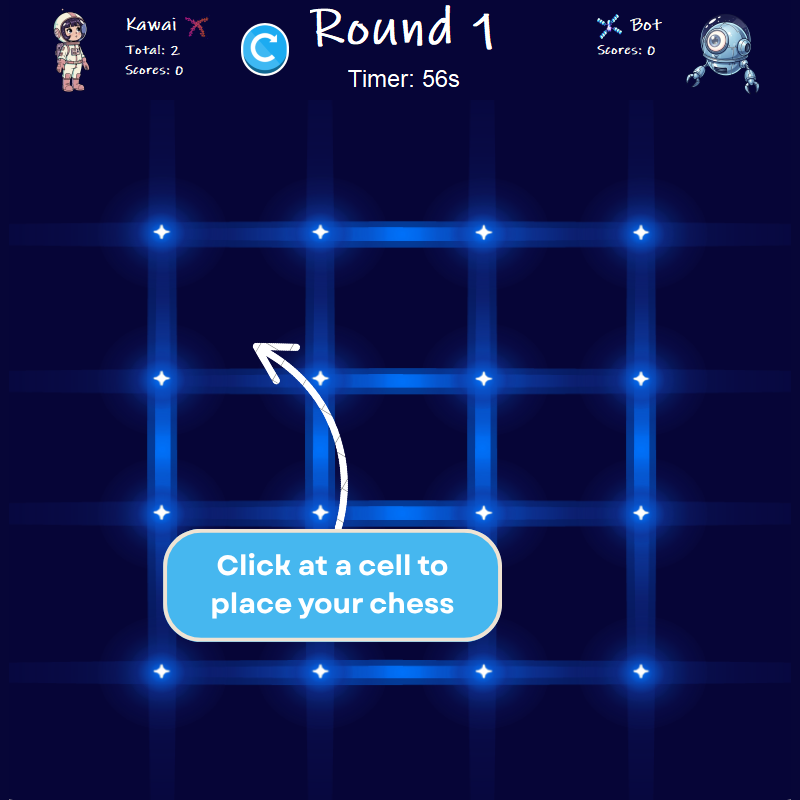
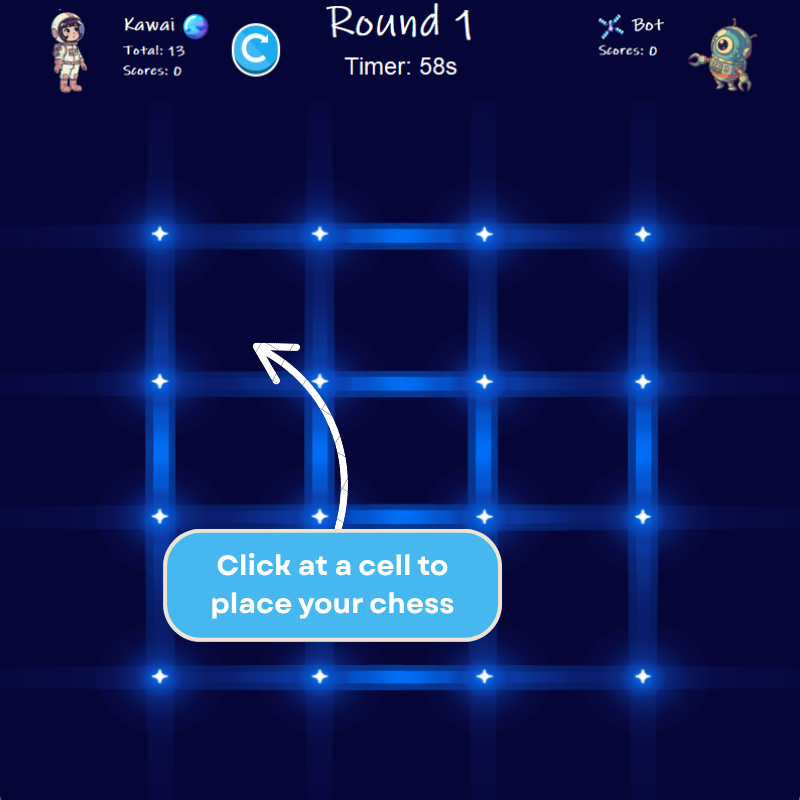
Update colors

diff --git a/src/panel/AboutUsPanel.java b/src/panel/AboutUsPanel.java
@@ -130,13 +130,13 @@ public class AboutUsPanel extends JPanel implements ActionListener {
     gbc.gridy = 3;
     gbc.gridx = 0;
     gridPanel.add(createMember(
-	    "<html><b>Nguyễn Phi Long</b><br><font size='3' color='gray'>CE170669 - <b><font color='#fdba14'>Leader</font></b></font></html>",
+	    "<html><b>Nguyễn Phi Long</b><br><font size='3'>CE170669 - <b><font color='#fdba14'>Leader</font></b></font></html>",
 	    "/img/about/long.jpg"
     ), gbc);
 
     gbc.gridx = 1;
     gridPanel.add(createMember(
-	    "<html><b>Trần Đức Toàn</b><br><font size='3' color='gray'>CE191605 - <b><font color='red'>Secretary</font></b></font></html>",
+	    "<html><b>Trần Đức Toàn</b><br><font size='3'>CE191605 - <b><font color='#fdba14'>Secretary</font></b></font></html>",
 	    "/img/about/toan.jpg"
     ), gbc);
 
@@ -144,13 +144,13 @@ public class AboutUsPanel extends JPanel implements ActionListener {
     gbc.gridy = 4;
     gbc.gridx = 0;
     gridPanel.add(createMember(
-	    "<html><b>Hoa Hồng Nhung</b><br><font size='3' color='gray'>CE182244</font></html>",
+	    "<html><b>Hoa Hồng Nhung</b><br><font size='3'>CE182244</font></html>",
 	    "/img/about/nhung.jpg"
     ), gbc);
 
     gbc.gridx = 1;
     gridPanel.add(createMember(
-	    "<html><b>Nguyễn Thị Mỹ Truyện</b><br><font size='3' color='gray'>CE181229</font></html>",
+	    "<html><b>Nguyễn Thị Mỹ Truyện</b><br><font size='3'>CE181229</font></html>",
 	    "/img/about/truyen.jpg"
     ), gbc);
 

diff --git a/src/panel/LeaderboardPanel.java b/src/panel/LeaderboardPanel.java
@@ -73,10 +73,10 @@ public class LeaderboardPanel extends JPanel implements ActionListener {
 	    c.setForeground(Color.decode("#fdba14"));
 	    c.setFont(new Font("Arial", Font.BOLD, 14));
 	  } else if (row == 1) {
-	    c.setForeground(Color.decode("#ef4a4a"));
+	    c.setForeground(Color.decode("#00FFFF"));
 	    c.setFont(new Font("Arial", Font.BOLD, 14));
 	  } else if (row == 2) {
-	    c.setForeground(Color.GREEN);
+	    c.setForeground(Color.decode("#32CD32"));
 	    c.setFont(new Font("Arial", Font.BOLD, 14));
 	  } else {
 	    c.setForeground(Color.WHITE);

diff --git a/src/object/Entity.java b/src/object/Entity.java
@@ -79,7 +79,8 @@ public class Entity {
 
   public int loadRandomMove() {
     Random randomizer = new Random();
-    final int num = randomizer.nextInt(5) + 1;
+//    final int num = randomizer.nextInt(4) + 1;
+    final int num = entityType == EntityType.BOT ? 3 : 4;
     String filePath = String.format("/img/elements/move%s.png", num);
     ImageIcon icon = new ImageIcon(getClass().getResource(filePath));
     move = icon;

diff --git a/src/object/Player.java b/src/object/Player.java
@@ -69,7 +69,7 @@ public class Player extends Entity {
 
   public void loadRandomAvatar() {
     Random randomizer = new Random();
-    final int num = randomizer.nextInt(3) + 1;
+    final int num = 1;
     String prefix = getGender() == Genders.MALE ? "m" : "f";
     String filePath = String.format("/img/avatar/%s%s.png", prefix, num);
     ImageIcon icon = new ImageIcon(getClass().getResource(filePath));
